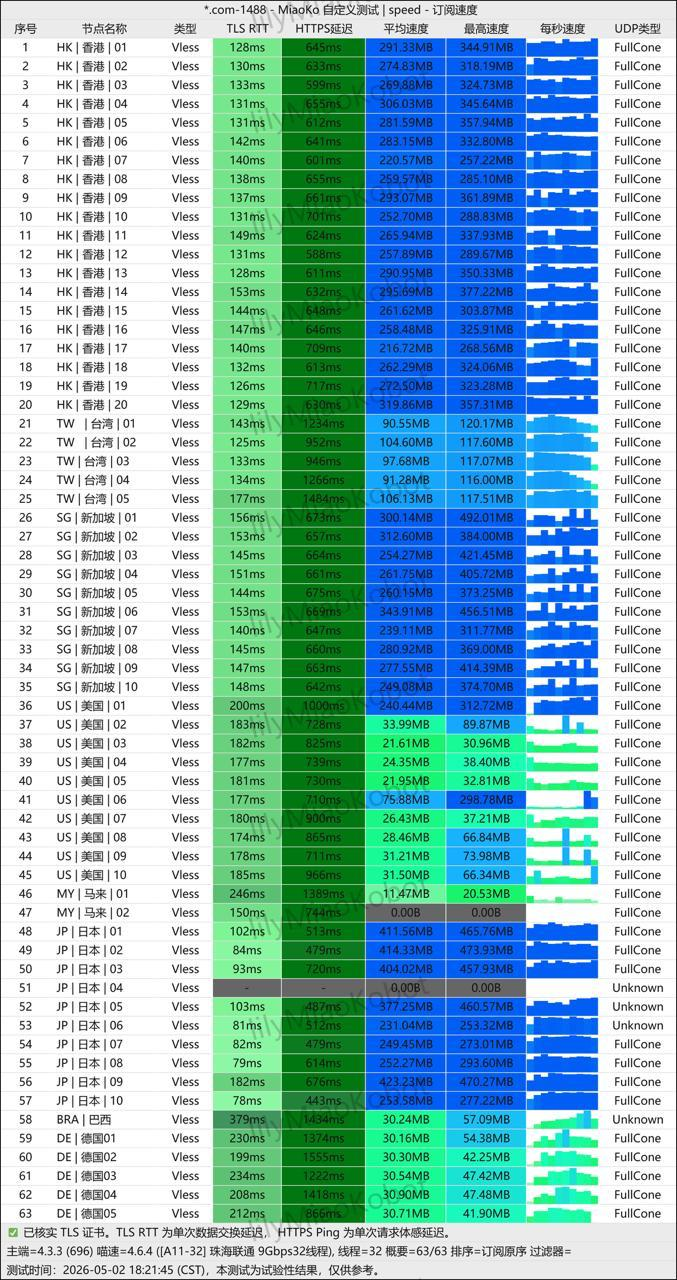
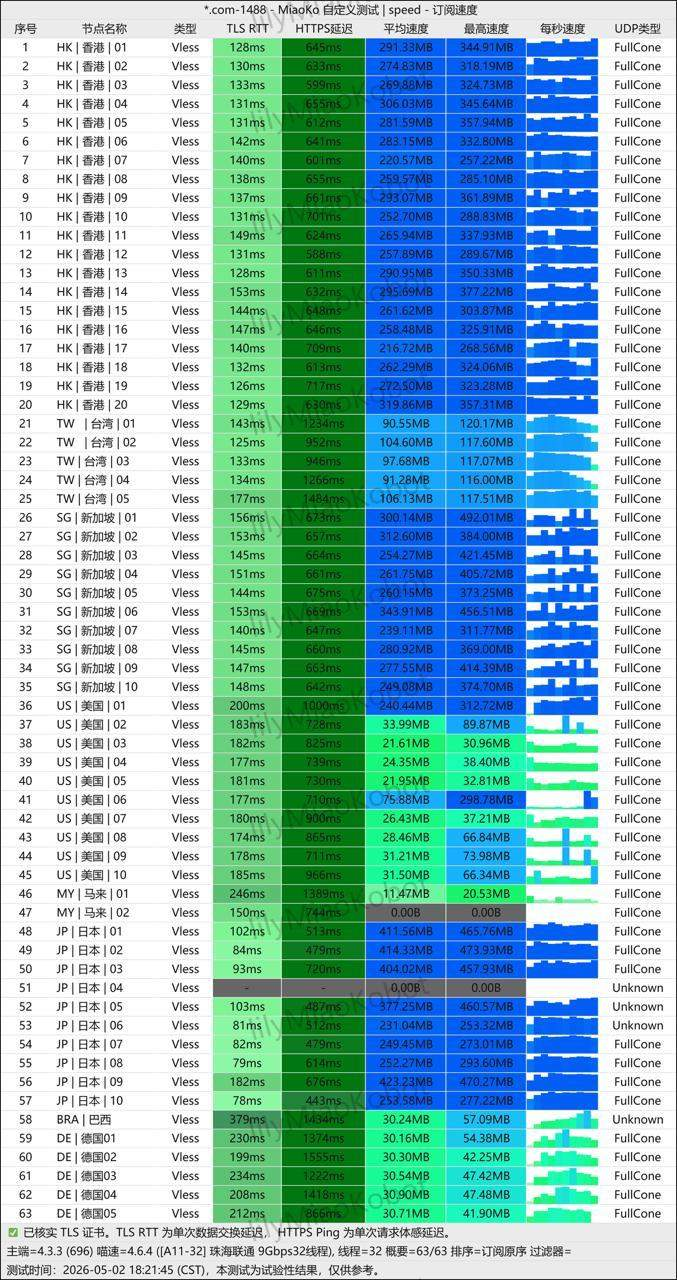
修改首页

diff --git a/docs/index.md b/docs/index.md
@@ -22,42 +22,33 @@ config:
         icon: {src: "/kuaiche.png"}
         details: |
           最低6.8元20GB不限时<br>
-          专属客户端更稳定<br>
-          客户端不限数量，强烈推荐<br>
           一天5GB试用码yp7net以及9折优惠码ZLOARB
         link: "https://wjkc66.vip/?c=GDIHMU"        
 
       - title: "全球云"
         icon: {src: "/qqy.png"}
         details: |
-          最低20元120GB/月<br>
-          提供低延迟、高稳定性的IPLC/IEPL专线VPN<br>
-          ☑️微信☑️支付宝
+          专属客户端更稳定<br>
+          客户端不限数量，强烈推荐<br>
         link: "https://haandiiong.gcvipaff.cc/#/?code=Hg3FRQIf"
 
       - title: "xxyun"
         icon: {src: "/xxyun.png"}
         details: | 
           最低9.99元100GB/月<br>
-          专属客户端更稳定<br>
-          客户端不限数量，最优选择<br>
-          9折优惠码xxyun
+          9折优惠码xxyun<br><br>
         link: "https://xxyun.at/?code=3AYVsSKY"
 
       - title: "阿达西"
         icon: {src: "/adaxi.png"}
         details: |
           最低3元20GB/月<br>
-          全球节点覆盖，企业级加密传输。<br>
-          ☑️微信☑️支付宝
         link: "https://adaxi.net/?r=156726"
 
       - title: "uuone"
         icon: {src: "/uuone.png"}
         details: | 
           最低19元150GB/月<br>
-          专属客户端更稳定<br>
-          客户端不限数量，最优选择<br>
           9折优惠码uuone
         link: "https://uuone.at/?code=bKQXx1jc"
 
@@ -65,8 +56,6 @@ config:
         icon: {src: "/ccyz.png"}
         details: | 
           最低19.9元150GB/月<br>
-          专属客户端更稳定<br>
-          客户端不限数量，最优选择<br>
           95折优惠码ccyz
         link: "https://ccyz.org/?code=QrBkwkM6"
 
@@ -74,8 +63,6 @@ config:
         icon: {src: "/naiyun.png"}
         details: |
           最低28元388GB/月<br>
-          价格有点贵，但是很稳定<br>
-          ☑️微信☑️支付宝
         link: "http://6.vip.v2ny.me?path=register&code=DJYy4gfX"
 
       - title: "隐云"
@@ -90,103 +77,78 @@ config:
         icon: {src: "/flybit.png"}
         details: |
           最低15元128GB/月<br>
-          大量专线和中转多种选择性<br>
-          ☑️微信☑️支付宝
         link: "https://goflybit.com/#/register?code=p3DOcgzt"
 
       - title: "99吧"
         icon: {src: "/99ba.png"}
         details: |
           最低12.99元99GB/月<br>
-          深圳港澳IEPL直连，广东移动中继<br>
-          ☑️微信☑️支付宝
         link: "https://99ba.net/#/register?code=Wls9E3cC"
 
       - title: "唯兔云"
         icon: {src: "/weituyun.png"}
         details: |
           最低14.9元100GB/月<br>
-          企业级 IPLC 专线与原生 IP，晚高峰依旧稳定高速<br>
-          ☑️微信☑️支付宝
         link: "https://haandiiong.v2cvipaff.cc/#/?code=jLYAKndB"  
 
       - title: "u1s1"
         icon: {src: "/u1s1.png"}
         details: |
           最低20元120GB/月<br>
-          价格适中，稳定性高<br>
-          ☑️微信☑️支付宝
         link: "https://haandiiong.vipaff.cc/#/?code=2hetA61B"
 
       - title: "光年梯"
         icon: {src: "/gnt.png"}
         details: |
           最低18元110GB/月<br>
-          晚高峰低延迟，节点稳定，是流媒体爱好者首选<br>
-          ☑️微信☑️支付宝
         link: "https://haandiiong.gntvipaff.cc/#/?code=ZWhMOU3y"
 
       - title: "ssone"
         icon: {src: "/ssone.png"}
         details: |
           最低15元70GB/月<br>
-          Lite套餐多线接入，Pro套餐IEPL专线接入，作者一直使用2年以上<br>
-          ☑️微信☑️支付宝
         link: "https://hello-ssone.com/register?aff=QpXdVaKY"
 
       - title: "迅达"
         icon: {src: "/xunda.png"}
         details: |
           最低15元150GB/月<br>
-          研发于**佛罗里达州**技术团队<br>
-          ☑️微信☑️支付宝
         link: "https://sulianproxy.com/register?code=wUdcc9nV"
 
       - title: "冲上云霄"
         icon: {src: "/csyx.png"}
         details: | 
           最低5元80GB/月<br>
-          稳定的台湾家宽VPN<br>
-          ☑️微信☑️支付宝
         link: "https://cpdd.one/?r=156735"
 
       - title: "cocoduck"
         icon: {src: "/cocoduck.png"}
         details: |
           最低15元150GB/月<br>
-          北美技术团队倾情奉献<br>
-          ☑️微信☑️支付宝
         link: "https://cocoduck.live/auth/register?code=ca0cfb89fa"
 
       - title: "极连云"
         icon: {src: "/jilianyun.png"}
         details: |
           最低15.5元100GB/月<br>
-          ☑️微信☑️支付宝
         link: "https://mind01.jlcvipaff.cc/#/?code=KphXzUot"
 
       - title: "runway"
         icon: {src: "/runway.png"}
         details: |
           最低9.9元100GB/月<br>
-          全球节点覆盖，企业级加密传输。<br>
-          ☑️微信☑️支付宝
         link: "https://new.runwayhz.com/#/register?code=cgkx147T"
 
       - title: "坦克加速"
         icon: {src: "/tankejiasu.png"}
         details: |
           最低9.9元100GB/月<br>
-          全球节点覆盖，企业级加密传输。<br>
-          ☑️微信☑️支付宝
         link: "https://aa.tankejiasu.com/#/register?code=hZKUg7Sw"
 
       - title: "瞬云"
         icon: {src: "/shunyun.png"}
         details: |
           最低20元150GB/月<br>
-          专属客户端更稳定<br>
-          客户端不限数量，最优选择<br>
           8折优惠码20OFF
         link: "https://ddd.jichang.best/#/register?code=p2IsV5RR"
 
@@ -194,8 +156,6 @@ config:
         icon: {src: "/ermaoyun.png"}
         details: |
           最低20元100GB/月<br>
-          专属客户端更稳定<br>
-          客户端不限数量，最优选择<br>
           7折优惠码yp7
         link: "https://01.2maoyunaff.cc/#/register?code=uT1DE9p8"
 
@@ -203,8 +163,6 @@ config:
         icon: {src: "/xsus.png"}
         details: |
           最低10元168GB/月<br>
-          专属客户端更稳定<br>
-          客户端不限数量，最优选择<br>
           行情不允许试用，暂无任何优惠
         link: "https://xsus.cloud/register?code=6hl2OXGR"
      
@@ -212,8 +170,6 @@ config:
         icon: {src: "/huanyuyun.png"}
         details: |
           最低18元150GB/月<br>
-          专属客户端更稳定<br>
-          客户端不限数量，最优选择<br>
           78折优惠码KY78
         link: "https://vip4.huanyuyunbest.com/#/register?code=5lSDLsfF" 
         
@@ -221,8 +177,6 @@ config:
         icon: {src: "/guangsuyun.png"}
         details: |
           最低17元110GB/月<br>
-          专属客户端更稳定<br>
-          客户端不限数量，最优选择<br>
           8折优惠码yp7
         link: "https://yp7.gsyaff.com/#/?code=38fT49vM" 
         
@@ -230,8 +184,34 @@ config:
         icon: {src: "/sogo.png"}
         details: |
           最低25元120GB/月<br>
-          专属客户端更稳定<br>
-          客户端不限数量，最优选择<br>
           8折优惠码SOGO168
-        link: "https://01.sogoyunaff.cc/#/login?code=ha4vvpdI"  
+        link: "https://01.sogoyunaff.cc/#/login?code=ha4vvpdI"
+
+      - title: "宇宙云"
+        icon: {src: "/yuzhouyun.png"}
+        details: |
+          最低12.5元50GB/月<br>
+          8折优惠码YUZHOU553
+        link: "https://01.yuzoucloud.cc/#/register?code=JsPr2Hwg"  
+
+      - title: "快狸"
+        icon: {src: "/kuaili.png"}
+        details: |
+          最低15元50GB/月<br>
+          8折优惠码kuaili996
+        link: "https://01.kuailicloudt.cc/#/register?code=NgN3JhxS"  
+
+      - title: "可信云"
+        icon: {src: "/kexinyun.png"}
+        details: |
+          最低15元60GB/月<br>
+          8折优惠码yp7888
+        link: "https://01.kosingaff.cc/#/register?code=yz6u5KXs"
+
+      - title: "星岛梦"
+        icon: {src: "/xingdaomeng.png"}
+        details: |
+          最低16元100GB/月<br>
+          8折优惠码SOGO168
+        link: "https://yp7.xingdaomeng.com/#/?code=QiAgQc3t"  
 ---

diff --git a/docs/机场推荐/机场大合集.md b/docs/机场推荐/机场大合集.md
@@ -1247,7 +1247,7 @@ description: 2026机场套餐数据汇总，整理各机场最低价格、月流
 
 #### 优惠：
 
-新用户注册，可享首次购买8折优惠码：**kexinyun330**
+新用户注册，可享首次购买8折优惠码：**yp7888**
 
 #### 详细评测：
 